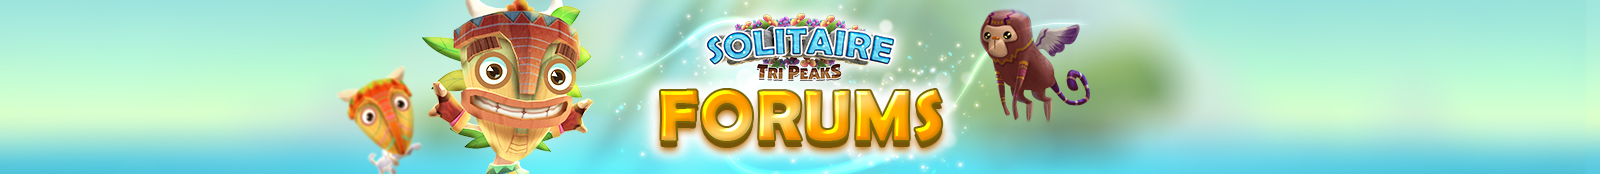
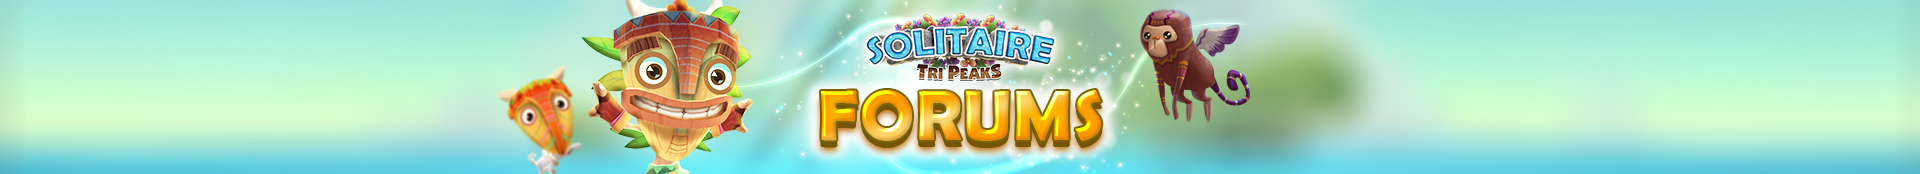
Remove header background tiling

Changed region(s): [[0.1875, 0.0, 0.75, 1.0], [0.875, 0.7759, 0.9062, 0.8621], [0.5, 0.0287, 0.5312, 0.0575]]

diff --git a/common/common.scss b/common/common.scss
@@ -72,14 +72,14 @@ a.badge-wrapper {
 
 .header-main {
   display: block;
-  background: url($main-header) top center;
+  background: url($main-header-small) top center no-repeat;
+  background-color: #50b69c;
   background-size: cover;
 }
 
 @media (min-width: 1610px) {
   .header-main {
-    background: url($main-header) top center no-repeat, url($main-header-tile) top left repeat-x;
-    background-size: contain;
+    background: url($main-header) top center no-repeat;
   }
 }
 
